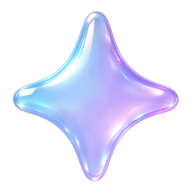
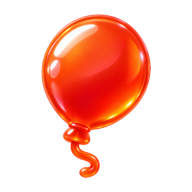
feat: свои иконки у тем «детям» и «обучение»; рецепт иконок в frontend.md
Шарик и академическая шапочка в стиле остальных иконок тем, нарисованы через Codex CLI.
Как именно — теперь записано в docs/agents/frontend.md: команда, промпт и требования к файлу.

diff --git a/docs/agents/frontend.md b/docs/agents/frontend.md
@@ -42,6 +42,30 @@ src/
 - **Эксперимент или выкатка — `useFlag('имя', значениеПоУмолчанию)`**: флаг PostHog. Значение по умолчанию — то, с чем приложение работает без PostHog (блокировщик, разработка, флаги ещё не пришли). Прав флагом не раздаём — для них возможность.
 - **Размер — сигнал.** Экран длиннее ~150 строк или с пятью `useState` — повод вынести хук или компонент.
 
+## Иконки тем
+
+Иконка Topic — `apps/web/public/topics/<slug>.png`, 192×192, RGBA с настоящей прозрачностью; `slug` — из `TOPIC_GUIDES`. Новая тема без своей иконки не выкладывается: копия `other.png` в ленте неотличима от «другого».
+
+Рисует Codex CLI (`image_generation` включена по умолчанию). В пустой папке вне репозитория, куда скопированы две-три существующие иконки как образец:
+
+```bash
+codex exec --skip-git-repo-check -s workspace-write -i art.png -i cinema.png -i games.png "<промпт>"
+```
+
+Промпт — на английском, по одному предмету на иконку:
+
+```text
+Use your image generation tool to draw a new icon in exactly the same style as the attached reference icons:
+a single glossy 3D object that looks like translucent candy-glass or jelly, soft rounded shapes, bright highlights
+and inner glow, one saturated colour family, slight three-quarter tilt, no text, no shadow on the ground,
+fully transparent background, object fills about 85% of a square canvas.
+<slug>.png — <предмет>, <цвет словами> (around <hex темы из tokens.css>).
+Save as a 192x192 RGBA PNG with real alpha transparency into the current directory under exactly this name.
+If the generator returns a larger image or an opaque background, remove the background and downscale with a script.
+```
+
+Предмет — один, узнаваемый в 40 px (шарик, а не «дети играют»); цвет — тот же, что у темы в `tokens.css`. Результат открой и сравни с соседними иконками, только потом клади в `public/topics`.
+
 ## Проверка
 
 `pnpm typecheck`; затем открыть экран через превью `web` (`.claude/launch.json`) и пройти сценарий руками. Чистые функции и правила покрываются `*.test.ts` рядом с файлом (`node --test`).
